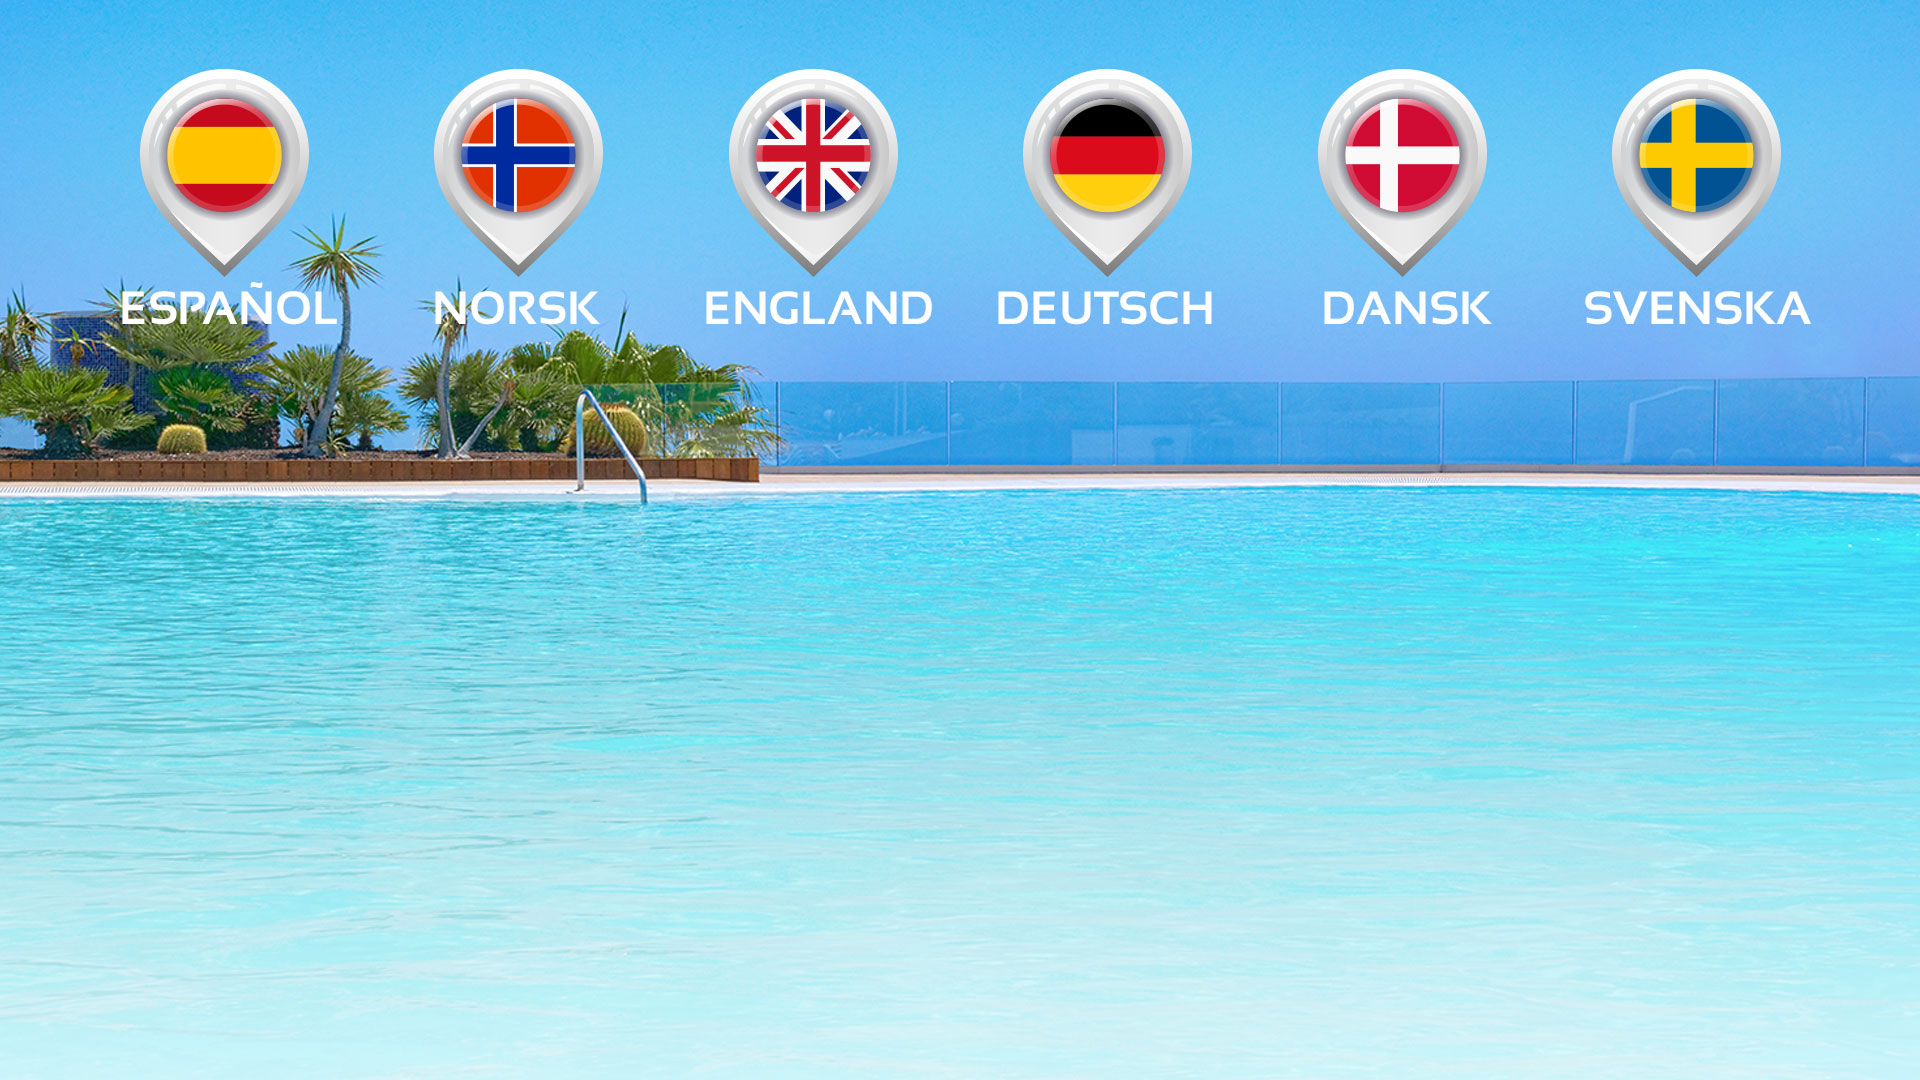
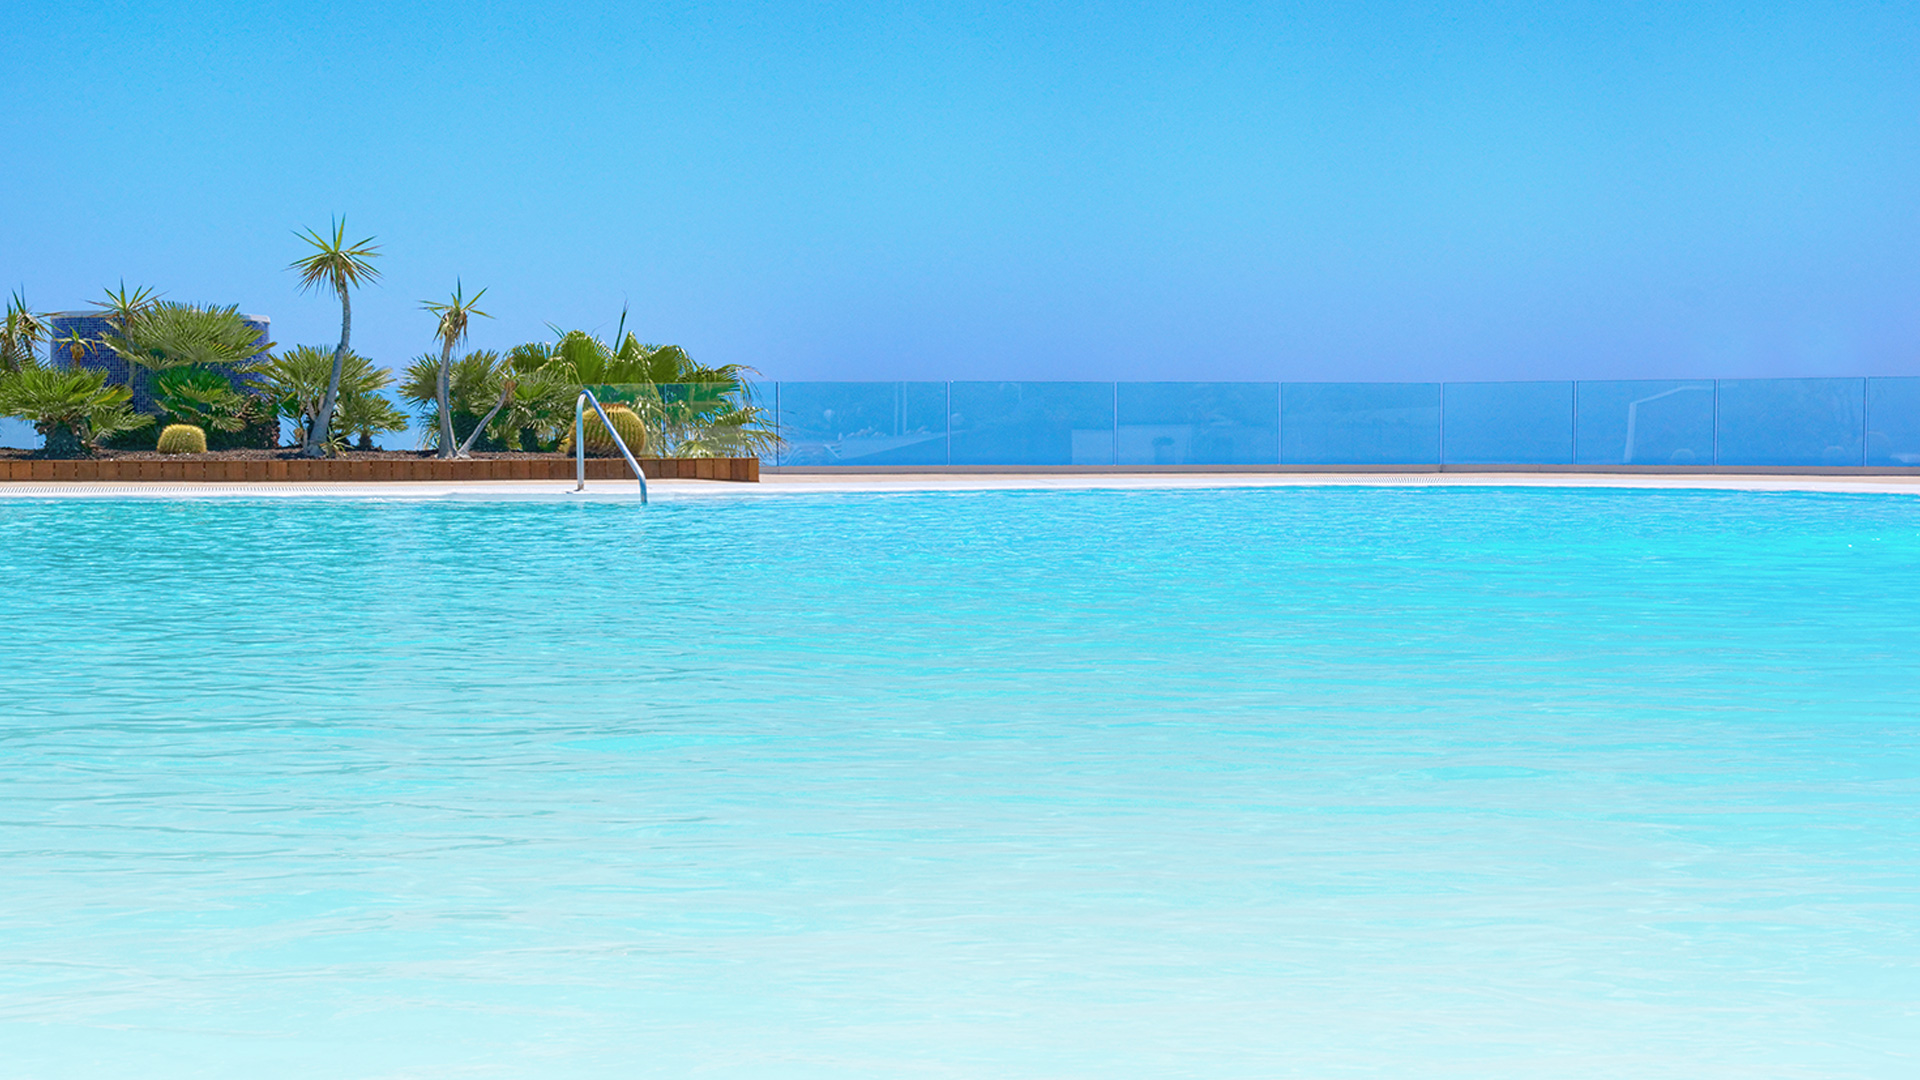
Rediseño portada cuestionario huésped

diff --git a/web/css/site.css b/web/css/site.css
@@ -146,65 +146,14 @@ form div.required label.control-label:after {
 /* guest survey styles */
 .fullpage {
     font-size: 22px;
-    color: #eee;
-}
-
-
-footer {
-    text-align: center;
-    height: 190px;
-    position: fixed;
-    bottom: 0;
-    width: 100%;
-    padding: 40px;
-    background-color: #00003f;
-}
-.btn-group-xl > .btn, .btn-xl {
-    padding: 14px 24px;
-    font-size: 24px;
-    line-height: 2.2;
-    border-radius: 8px;
-}
-.languages {
-    padding: 22px 6px;
-    margin-left: 0px;
-    margin-top: -8px;
-    margin-bottom: 24px;
-    border-bottom: 1px solid white;
-}
-.fullpage .jumbotron {
-  padding-top: 0;
-  padding-bottom: 0;
-  color: #444;
-}
-.languages .jumbotron {
-    color: white;
-}
-.languages .thumbnail, .languages .jumbotron {
-    border: 1px solid gray;
-}
-@media (max-width: 767px) {
-  .fullpage .page-header {
-     margin: 12px 0 8px;
-  }
-  .fullpage .thumbnail {
-     margin-bottom: 6px;
-     padding: 0;
-  }
-  .fullpage .thumbnail h3 {
-     font-size: 16px;
-     margin-top: 10px;
-  }
-  .fullpage .jumbotron {
-     margin-bottom: 8px;
-  }
-  .fullpage .section .container h1 small {
-     font-size: 40%;
-  }
 }
 .fullpage hr {
     margin-top: 12px;
     margin-bottom: 16px;
+}
+.fullpage .vxpad {
+    padding-top: 164px;
+    padding-bottom: 96px;
 }
 .fullpage .vpad {
     padding-top: 24px;
@@ -222,6 +171,9 @@ footer {
 [data-anchor*="step"] {
   background-position: center;
   background-size: auto 100%;
+}
+[data-anchor="step-0"] {
+  background-image: url(../img/front.jpg);
 }
 [data-anchor="step-1"] {
   background-image: url(../img/reception.jpg);
@@ -245,18 +197,17 @@ footer {
   padding: 12px;
   background-color: rgba(0,0,0,0.6);
 }
-.fullpage .section .container {
+.fullpage .section .container.panel {
   background-color: rgba(0,0,0,0.75);
+  box-shadow: 0 5px 5px rgba(0, 0, 0, .35);
   padding: 16px;
   border-radius: 12px;
+  border-color: rgba(0,0,0,0.9);
+  color: #eee;
 }
-.fullpage .section .container > h1 {
+.fullpage .section .container.panel > h1 {
   color: #ddd;
   text-shadow: 2px 1px #000000;
-}
-.fullpage .section .container h1 small {
-  color: #aaaacc;
-  text-shadow: 2px 1px #3333cc;
 }
 .fullpage-menu {
   position: fixed;
@@ -264,7 +215,6 @@ footer {
   left: 18px;
   z-index: 70;
 }
-
 .fullpage-menu .btn-link {
   padding: 4px 8px;
   display: inline-block;
@@ -272,4 +222,59 @@ footer {
   background: rgba(255,255,255,.6);
   -webkit-border-radius: 10px;
   border-radius: 10px;
+}
+.btn-group-xl > .btn, .btn-xl {
+  padding: 14px 24px;
+  font-size: 24px;
+  line-height: 2.2;
+  border-radius: 8px;
+}
+.language-wrapper {
+  overflow: hidden;
+  box-sizing: content-box;
+  padding: 4px 0 10px;
+  text-align: center;
+  color: white;
+  text-transform: uppercase;
+  font-size: 0.6em;
+  font-weight: 900;
+  border-radius: 12px;
+  text-shadow: 1px 1px rgba(0,0,0,0.4);
+}
+.language-wrapper.active {
+  background-color: rgba(255,255,255,.6);
+  color: black;
+  text-shadow: none;
+}
+a.language-wrapper:hover {
+  background-color: rgba(0,0,0,.6);
+  color: white;
+  text-decoration: none;
+}
+.language-wrapper .language {
+  width: 600%;
+}
+.language-wrapper .language-es {
+  margin-left: -300%;
+}
+.language-wrapper .language-da {
+  margin-left: -200%;
+}
+.language-wrapper .language-de {
+  margin-left: -100%;
+}
+.language-wrapper .language-no {
+  margin-left: -400%;
+}
+.language-wrapper .language-sv {
+  margin-left: -500%;
+}
+@media (max-width: 767px) {
+  .fullpage .page-header {
+     margin: 12px 0 8px;
+  }
+  .fullpage .vxpad {
+    padding-top: 96px;
+    padding-bottom: 64px;
+  }
 }

diff --git a/views/survey/guest_create.php b/views/survey/guest_create.php
@@ -33,10 +33,44 @@ FullpageAsset::register($this);
  <?php $form = ActiveForm::begin(); ?>
   <div class="section" data-anchor="step-0">
     <div class="container">
-      <h1 class="page-header">Idioma <small>Language / Sprache / Langage / Lingua / Язык / Språk</small></h1>
-      <div class="languages text-center" >
-        <img src="<?= Url::to('@web/img/front.jpg')?>" height="240px">
+      <div class="row">
+        <div class="col-md-11 col-md-offset-1 col-xs-10 col-xs-offset-1">
+          <div class="row">
+            <div class="col-xs-2 col-sm-1 col-sm-offset-0 col-xs-offset-1 language-wrapper active">
+              <img src="<?= Url::to('@web/img/languages.png')?>" class="language language-es"></img>
+              Español
+            </div>
+            <a href="#" class="col-xs-2 col-sm-1 col-xs-offset-2 col-sm-offset-1 language-wrapper">
+              <img src="<?= Url::to('@web/img/languages.png')?>" class="language language-en"></img>
+              English
+            </a>
+            <a href="#" class="col-xs-2 col-sm-1 col-xs-offset-2 col-sm-offset-1 language-wrapper">
+              <img src="<?= Url::to('@web/img/languages.png')?>" class="language language-de"></img>
+              Deutsch
+            </a>
+            <a href="#" class="col-xs-2 col-sm-1 col-xs-offset-1 col-sm-offset-1 language-wrapper">
+              <img src="<?= Url::to('@web/img/languages.png')?>" class="language language-sv"></img>
+              Svenska
+            </a>
+            <a href="#" class="col-xs-2 col-sm-1 col-xs-offset-2 col-sm-offset-1 language-wrapper">
+              <img src="<?= Url::to('@web/img/languages.png')?>" class="language language-da"></img>
+              Dansk
+            </a>
+            <a href="#" class="col-xs-2 col-sm-1 col-xs-offset-2 col-sm-offset-1 language-wrapper">
+              <img src="<?= Url::to('@web/img/languages.png')?>" class="language language-no"></img>
+              Norsk
+            </a>
+          </div>
+        </div>
       </div>
+      <!--
+      <div class="text-center vxpad">
+        <img src="<?= Url::to('@web/img/logo-riosol.png')?>"></img>
+      </div>
+      -->
+    </div>
+    <div class="vxpad"></div>
+    <div class="container">
       <p class="lead">Estimado cliente,</p>
       <p class="lead">sus opiniones y sugerencias, incluso sus quejas, son la mejor herramienta para mejorar nuestras instalaciones y servicios, por ello le agradecemos sinceramente que dedique unos minutos de sus vacaciones a rellenar este cuestionario antes de abandonar el hotel.</p>
       <p class="lead">Le aseguramos que todas sus aportaciones serán tenidas muy en cuenta.</p>
@@ -54,7 +88,7 @@ FullpageAsset::register($this);
     $current = 1;
     foreach ($model->answers as $department => $answers) {
       echo Html::beginTag('div', ['class' => 'section', 'data-anchor' => "step-{$current}"]);
-        echo Html::beginTag('div', ['class' => 'container']);
+        echo Html::beginTag('div', ['class' => 'container panel']);
           echo Html::tag('h1', $department, ['class' => 'page-header']);
           echo Html::beginTag('div', ['class' => 'row']);
             echo $this->render('_emoticon_cols');
@@ -92,7 +126,7 @@ FullpageAsset::register($this);
     }
   ?>
   <div class="section" data-anchor="step-<?= $current ?>">
-    <div class="container">
+    <div class="container panel">
       <div class="vpad">
         <?= $form->field($model->survey, 'source_title', ['template' => mkFieldTemplate('magnet')])->dropDownList($sources, ['prompt' => '', 'class' => 'input-lg form-control']) ?>
         <?= $form->field($model->survey, 'met_expectation_title', ['template' => mkFieldTemplate('apple')])->dropDownList($met_expectations, ['prompt' => '', 'class' => 'input-lg form-control']) ?>
@@ -120,7 +154,7 @@ FullpageAsset::register($this);
     </div>
   </div>
   <div class="section" data-anchor="step-<?= $current ?>">
-    <div class="container">
+    <div class="container panel">
       <div class="vpad">
         <?= $form->field($model->survey, 'good_things', ['template' => mkFieldTemplate('thumbs-up')])->textArea(['maxlength' => true, 'class' => 'input-lg form-control']) ?>
         <?= $form->field($model->survey, 'bad_things', ['template' => mkFieldTemplate('thumbs-down')])->textArea(['maxlength' => true, 'class' => 'input-lg form-control']) ?>
@@ -147,7 +181,7 @@ FullpageAsset::register($this);
     </div>
   </div>
   <div class="section" data-anchor="step-<?= $current ?>">
-    <div class="container">
+    <div class="container panel">
       <div class="vpad">
         <?= $form->field($model->survey, 'guest_name', ['template' => mkFieldTemplate('user')])->textInput(['maxlength' => true, 'class' => 'input-lg form-control'])?>
         <?= $form->field($model->survey, 'guest_country_id')->widget(Select2::classname(), [
@@ -184,7 +218,7 @@ FullpageAsset::register($this);
     </div>
   </div>
   <div class="section" data-anchor="step-<?= $current ?>">
-    <div class="container">
+    <div class="container panel">
       <div class="vpad">
         <?= $form->field($model->survey, 'apartment', ['template' => mkFieldTemplate('tag')])->textInput(['maxlength' => true, 'class' => 'input-lg form-control']) ?>
         <?= $form->field($model->survey, 'touroperator_name', ['template' => mkFieldTemplate('briefcase')])->textInput(['maxlength' => true, 'class' => 'input-lg form-control']) ?>
